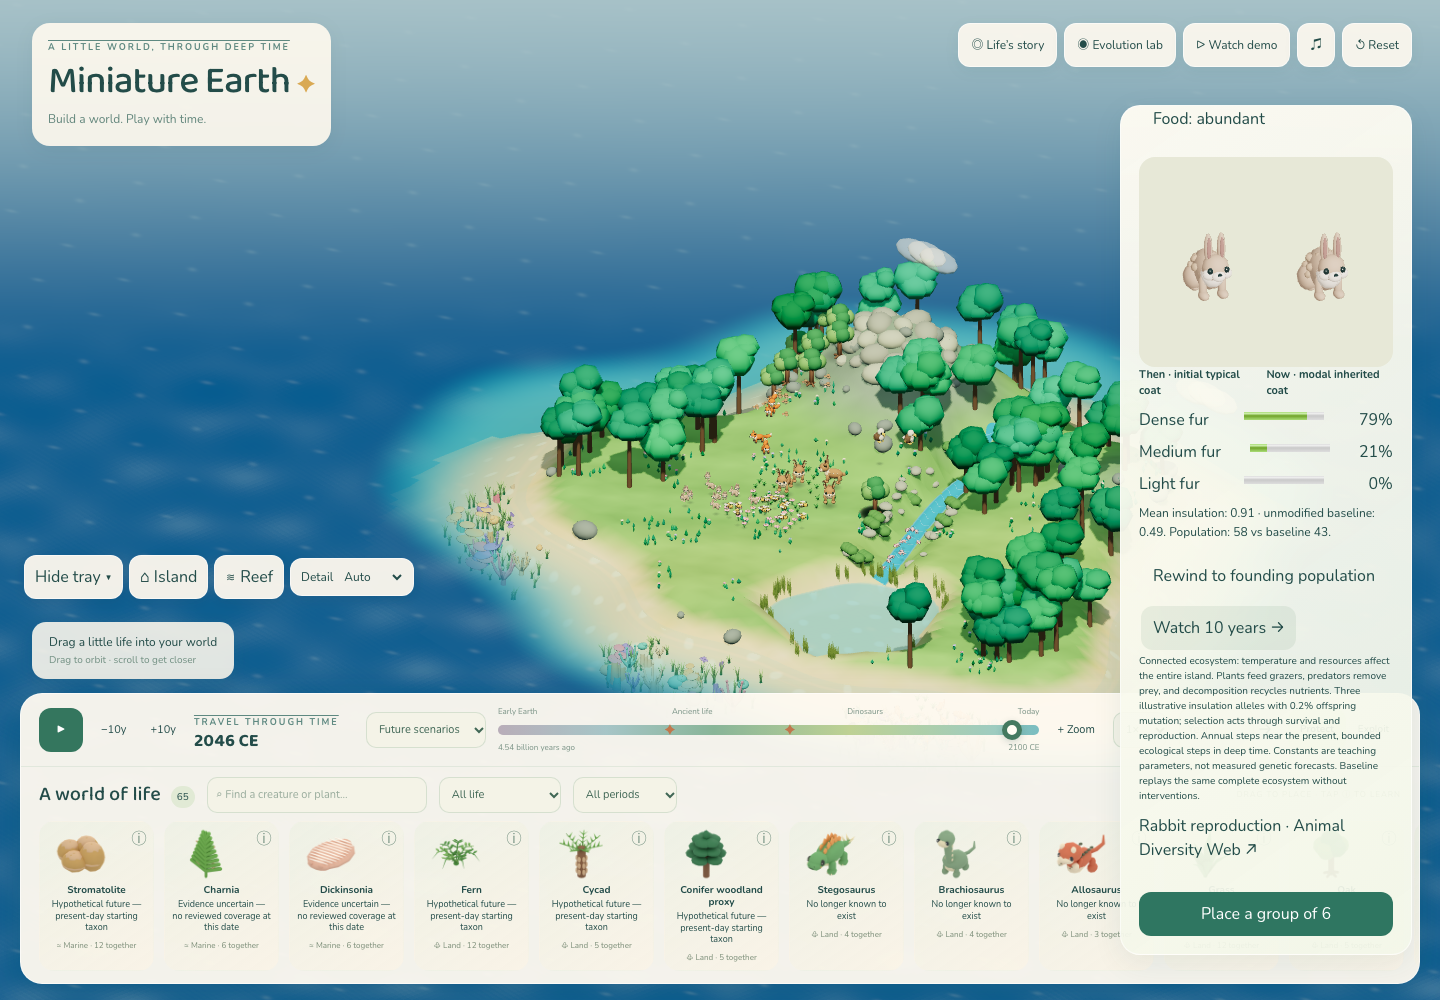
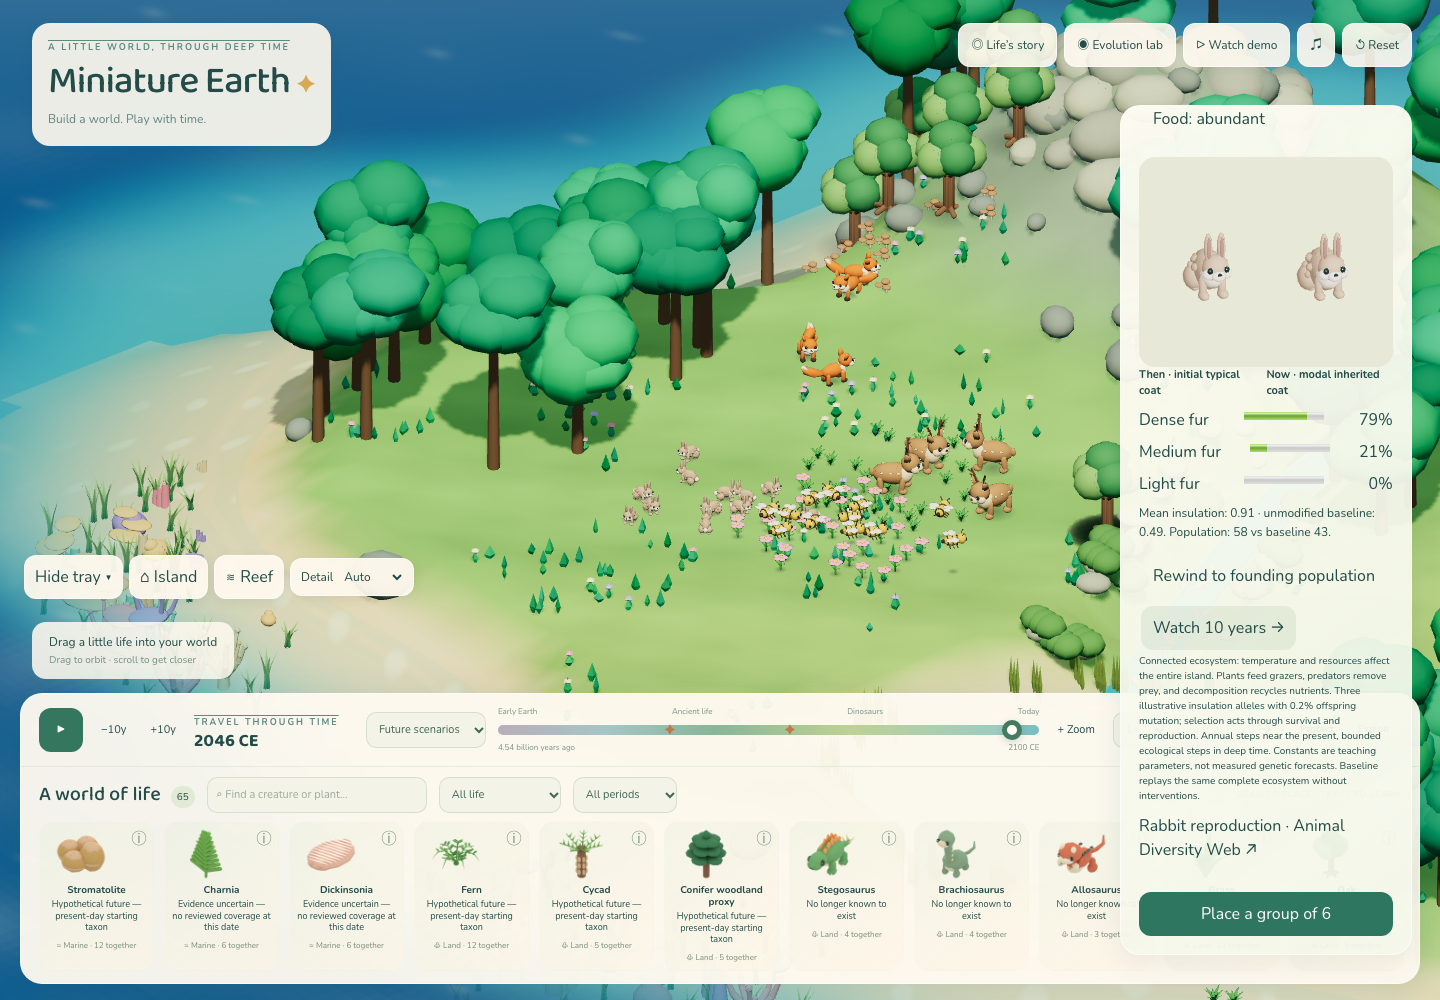
Keep evolution camera framing after historical time jumps

diff --git a/src/ui/EvolutionLab.tsx b/src/ui/EvolutionLab.tsx
@@ -11,5 +11,5 @@ import {yearToTick,tickToYear} from '../sim/timeline';
 function Rabbit({allele,x}:{allele:Allele;x:number}){const {scene}=useGLTF('/models/org_rabbit.glb'),clone=useMemo(()=>{const c=scene.clone(true);const body=c.getObjectByName('Body');if(body){const coat=phenotype(allele).insulation;body.scale.x*=1+coat*.18;body.scale.z*=1+coat*.18;body.scale.y*=1+coat*.1}return c},[scene,allele]),p=phenotype(allele);return <group position={[x,0,0]} rotation={[0,.3,0]}><primitive object={clone}/>{Array.from({length:p.tufts},(_,j)=>{const placement=furPlacement(j);return <mesh key={j} position={placement.position} quaternion={new Quaternion().setFromUnitVectors(new Vector3(0,1,0),new Vector3(...placement.normal).normalize())} scale={[.032,p.furLength*.4,.032]}><sphereGeometry args={[1,6,4]}/><meshStandardMaterial color="#c1a58a" roughness={.95}/></mesh>})}</group>}
 const representative=(f:readonly number[])=>f.indexOf(Math.max(...f)) as Allele;
 export function EvolutionLab(){const g=useGame(),sim=useSimState(),group=sim.groups?.find(s=>s.speciesId==='rabbit'&&s.evolution);const now=group?.evolution;const start=group?tickToYear(group.tick):2026;const baseline=useMemo(()=>group?coupledState(species,g.placements,g.tick,g.scenario,g.seed,[]).groups?.find(v=>v.id===group.id)?.evolution:null,[group?.id,g.placements,g.tick,g.scenario,g.seed]);const current=g.interventions.filter(c=>c.year<=sim.year).at(-1);
-function begin(){g.setTick(yearToTick(2026));g.setMode('historical');useGame.getState().setMode('sandbox');useGame.getState().focus('rabbit');window.dispatchEvent(new CustomEvent('world-camera',{detail:'evolution'}))}
+function begin(){g.setTick(yearToTick(2026));g.setMode('historical');useGame.getState().setMode('sandbox');useGame.getState().focus('rabbit');requestAnimationFrame(()=>requestAnimationFrame(()=>window.dispatchEvent(new CustomEvent('world-camera',{detail:'evolution'}))))}
 return <section className="evolution-lab"><h3>Visible evolution · rabbit insulation</h3>{!now?<button onClick={begin}>Start rabbit experiment</button>:<><p>{now.generation} ecological steps · {now.individuals.length} rabbits. Offspring inherit insulation. Survivors retain their genotype; food, predation and habitat affect the same population.</p><div className="selection-controls">{[-10,0,10].map(t=><button key={t} className={(current?.temperature??0)===t?'chosen':''} onClick={()=>g.intervene(t,current?.resources??1)}>{t<0?'Cold':t>0?'Warm':'Neutral'}</button>)}<button onClick={()=>g.intervene(current?.temperature??0,(current?.resources??1)===1?.5:1)}>Food: {(current?.resources??1)===1?'abundant':'limited'}</button></div><div className="phenotype-view"><Canvas orthographic camera={{position:[0,1.1,2.3],zoom:145}} dpr={1}><ambientLight intensity={1.7}/><directionalLight position={[2,3,4]} intensity={3}/><Suspense fallback={null}><Rabbit allele={1} x={-.4}/>{now.individuals.length>0&&<Rabbit allele={representative(now.frequencies)} x={.4}/>}</Suspense><OrbitControls target={[0,.23,0]} enableZoom={false} enablePan={false}/></Canvas></div><div className="comparison-labels"><b>Then · initial typical coat</b><b>{now.individuals.length?'Now · modal inherited coat':'Now · simulated local extinction'}</b></div>{now.frequencies.map((v,i)=><label className="trait-row" key={i}>{['Dense','Medium','Light'][i]} fur <meter min={0} max={1} value={v}/> {(v*100).toFixed(0)}%</label>)}<p>Mean insulation: {now.mean.toFixed(2)} · unmodified baseline: {baseline?.mean.toFixed(2)}. Population: {now.individuals.length} vs baseline {baseline?.individuals.length}.</p><button onClick={()=>g.setTick(yearToTick(start))}>Rewind to founding population</button><button onClick={()=>g.stepYears(1)}>Watch 10 years →</button>{now.approximate&&<p>Long-range approximation: ecological steps are capped at 512. This is not a detailed fossil lineage.</p>}</>}<small>Connected ecosystem: temperature and resources affect the entire island. Plants feed grazers, predators remove prey, and decomposition recycles nutrients. Three illustrative insulation alleles with 0.2% offspring mutation; selection acts through survival and reproduction. Annual steps near the present, bounded ecological steps in deep time. Constants are teaching parameters, not measured genetic forecasts. Baseline replays the same complete ecosystem without interventions.</small><a href="https://animaldiversity.org/accounts/Oryctolagus_cuniculus/" target="_blank" rel="noreferrer">Rabbit reproduction · Animal Diversity Web ↗</a></section>}

diff --git a/PROGRESS.md b/PROGRESS.md
@@ -192,3 +192,4 @@ The original ecological tests were updated where they assumed unlimited backgrou
 ## Remaining-work final acceptance — DONE
 Rigging, scientific coverage and ecosystem coupling are complete for the supported 65-entry catalogue. PASS: 75 tests / 17 files, strict typecheck and build, 43 named browser checks plus expanded evolution/replay/rejection, zero console/page errors, all 52 rig inspections, Khronos zero errors/warnings, normalized skin weights/clip/deformed-bounds checks, 68 original full-asset and 65 LOD contracts. Reviewed final overview, close rigs, reef, mobile and evolution images. Fixed small-animal zoom access, founding trait display, source-snapshot navigation, sessile movement and glTF skin hierarchy warnings.
 The final isolated software-renderer fixture records 50.0 ms median / 66.8 ms p95, 37 calls and 140,740 triangles. Native hardware performance remains unmeasured; no hardware-60fps claim. Scientific unknowns and numerical approximations are documented explicitly in qa/REMAINING_WORK_COMPLETED.md. No requested implementation milestone remains open in this continuation. No push or deployment. User .gitignore edit excluded.
+Final visual follow-up: delayed the evolution camera preset until the new era's camera has committed, so starting an experiment from a fossil snapshot reliably frames the animals. Production build and final-local browser checks pass with zero errors; refreshed and inspected the final capture.
